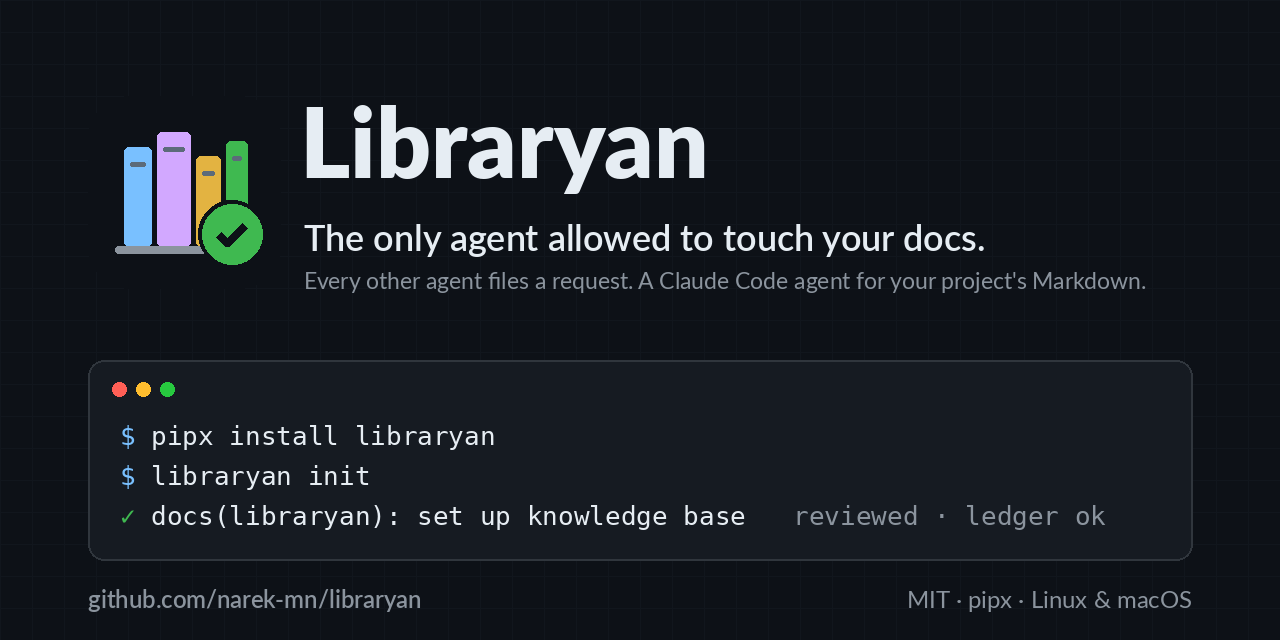
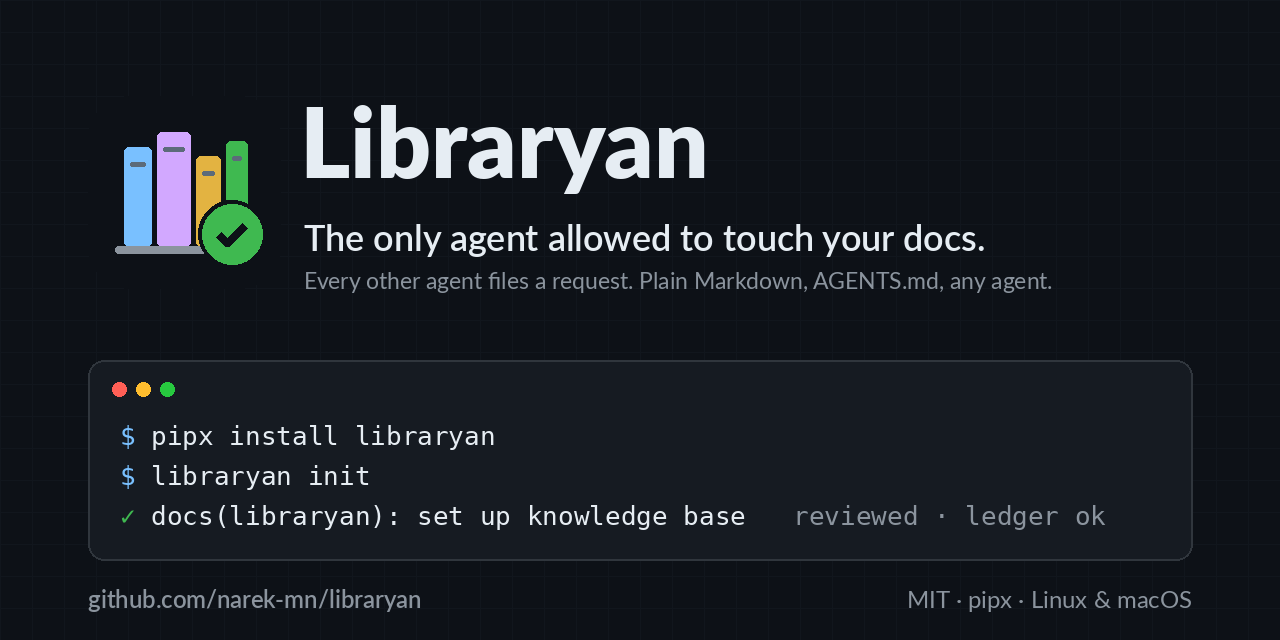
docs: vendor-neutral positioning; the Claude Code runner is stated once, as a current limit

Changed region(s): [[0.5, 0.4062, 0.9062, 0.4688]]

diff --git a/site/index.html b/site/index.html
@@ -4,7 +4,7 @@
 <meta charset="utf-8">
 <meta name="viewport" content="width=device-width, initial-scale=1">
 <title>Libraryan — the only agent allowed to touch your docs</title>
-<meta name="description" content="Your AI agents write Markdown faster than anyone can keep it true. Libraryan makes one Claude Code agent the only writer of your project's docs. Every other agent, and every person, files a request.">
+<meta name="description" content="Your AI agents write Markdown faster than anyone can keep it true. Libraryan makes one agent the only writer of your project's docs. Every other agent, and every person, files a request.">
 <meta name="theme-color" content="#0d1117">
 <link rel="canonical" href="https://narek-mn.github.io/libraryan/">
 <meta property="og:type" content="website">
@@ -223,7 +223,7 @@ footer a{color:var(--dim)}footer a:hover{color:var(--fg)}
 <header class="hero" id="top">
   <div class="wrap">
     <svg class="logo" role="img" aria-label="Libraryan logo: four books on a shelf with a green check mark"><use href="#logo"/></svg>
-    <div><span class="pill"><b>●</b> Claude Code agent + plugin · MIT · zero dependencies</span></div>
+    <div><span class="pill"><b>●</b> Works with any agent · MIT · zero dependencies</span></div>
     <h1>The only agent allowed to <span class="grad">touch your docs.</span></h1>
     <p class="lede">Your AI agents write Markdown faster than anyone can keep it true. Libraryan makes one agent the <b>only writer</b> of your project's docs. Every other agent, and every person, files a request.</p>
     <div class="ctas">
@@ -249,7 +249,7 @@ footer a{color:var(--dim)}footer a:hover{color:var(--fg)}
       <p class="eyebrow">The problem</p>
       <h2>Every agent writes docs. No one owns them.</h2>
       <p>Give a repo a few coding agents and a few months, and the Markdown rots: a <code>README</code> that documents flags the code dropped, three <code>setup</code> guides that disagree, <code>NOTES.md</code>, <code>TODO_old.md</code>, an empty <code>ideas.md</code>, and agent instruction files nobody has read since they were written.</p>
-      <p><strong>The fix: one owner.</strong> Libraryan installs a <a href="https://docs.anthropic.com/en/docs/claude-code">Claude Code</a> agent that owns every Markdown file in your project: knowledge base, docs and agent instruction files.</p>
+      <p><strong>The fix: one owner.</strong> Libraryan installs an agent that owns every Markdown file in your project: knowledge base, docs and agent instruction files.</p>
     </div>
     <div class="files" aria-label="Examples of Markdown rot">
       <div class="bad"><span>README.md</span><span>documents flags the code dropped</span></div>
@@ -267,7 +267,7 @@ footer a{color:var(--dim)}footer a:hover{color:var(--fg)}
     <p class="eyebrow">What you get</p>
     <h2>One writer. Enforced, reviewed, and cheap.</h2>
     <div class="grid">
-      <article class="card"><div class="ic c-b"><svg aria-hidden="true" viewBox="0 0 24 24"><rect x="4" y="11" width="16" height="10" rx="2"/><path d="M8 11V7a4 4 0 018 0v4"/></svg></div><h3>Single writer, enforced.</h3><p>A git pre-commit hook and a Claude Code guard block every other edit. This is a hook, not a polite prompt.</p></article>
+      <article class="card"><div class="ic c-b"><svg aria-hidden="true" viewBox="0 0 24 24"><rect x="4" y="11" width="16" height="10" rx="2"/><path d="M8 11V7a4 4 0 018 0v4"/></svg></div><h3>Single writer, enforced.</h3><p>A git pre-commit hook blocks every other edit, from any agent or editor. This is a hook, not a polite prompt.</p></article>
       <article class="card"><div class="ic c-p"><svg aria-hidden="true" viewBox="0 0 24 24"><path d="M4 4h16v16H4z"/><path d="M4 7l8 6 8-6"/></svg></div><h3>Everyone else files a request.</h3><p>Other agents and people drop a note in <code>.libraryan/requests/</code>. Libraryan writes the change.</p></article>
       <article class="card"><div class="ic c-y"><svg aria-hidden="true" viewBox="0 0 24 24"><circle cx="12" cy="12" r="9"/><path d="M15.5 8.5l-2 5-5 2 2-5z"/></svg></div><h3>Docs checked against the code.</h3><p>When docs contradict the code, it fixes the docs and reports suspected code bugs. It never edits code.</p></article>
       <article class="card"><div class="ic c-g"><svg aria-hidden="true" viewBox="0 0 24 24"><path d="M4 7h16M9 7V4h6v3M6 7l1 13h10l1-13"/></svg></div><h3>Junk removed, facts kept.</h3><p>Outdated Markdown is deleted only after a <em>deletion ledger</em> proves where each fact went.</p></article>
@@ -283,7 +283,7 @@ footer a{color:var(--dim)}footer a:hover{color:var(--fg)}
     <h2>Every doc change takes the same path.</h2>
     <p class="sub">Other agents and people hit the lock. Requests, commits, the daily run and manual runs all feed one Libraryan run, which is committed only if the ledger and the reviewer agree.</p>
     <ol class="flow">
-      <li class="k"><span class="n">lock</span><b>🔒 Lock</b><small>Pre-commit hook + Claude Code guard block direct edits to owned docs.</small></li>
+      <li class="k"><span class="n">lock</span><b>🔒 Lock</b><small>A git pre-commit hook blocks direct edits to owned docs, from any agent or editor.</small></li>
       <li class="q"><span class="n">request</span><b>📨 Request</b><small>A request file in <code>.libraryan/requests/</code>.</small></li>
       <li class="r"><span class="n">run</span><b>📚 Run</b><small>Triggered by commit, daily or manual. Audit → write → checks.</small></li>
       <li class="l"><span class="n">ledger</span><b>🧾 Ledger</b><small>Deletion ledger: every fact accounted for.</small></li>
@@ -327,7 +327,7 @@ footer a{color:var(--dim)}footer a:hover{color:var(--fg)}
         </tbody>
       </table>
     </div>
-    <p class="note"><strong>Honest limits:</strong> Claude Code is the only runtime for now; Linux and macOS only. The lock is a guardrail, not a security boundary (<code>git commit --no-verify</code> skips it). See <a href="https://github.com/narek-mn/libraryan/blob/main/docs/guide.md#known-limits">Known limits</a>.</p>
+    <p class="note"><strong>Honest limits:</strong> Libraryan's own writer and reviewer run through Claude Code today; more runtimes (Codex CLI, Gemini CLI) are planned. Linux and macOS only. The lock is a guardrail, not a security boundary (<code>git commit --no-verify</code> skips it). See <a href="https://github.com/narek-mn/libraryan/blob/main/docs/guide.md#known-limits">Known limits</a>.</p>
   </div>
 </section>
 
@@ -345,7 +345,7 @@ footer a{color:var(--dim)}footer a:hover{color:var(--fg)}
         <p><code>libraryan init</code> installs, builds the KB, commits.</p>
       </div>
       <div class="panel">
-        <h3>Inside Claude Code <small>plugin</small></h3>
+        <h3>Claude Code plugin <small>optional</small></h3>
         <pre><span class="t-p">/plugin</span> marketplace add narek-mn/libraryan
 <span class="t-p">/plugin</span> install libraryan@libraryan
 <span class="t-p">/libraryan:init</span><button class="copy" type="button" data-copy="/plugin marketplace add narek-mn/libraryan&#10;/plugin install libraryan@libraryan&#10;/libraryan:init" aria-label="Copy plugin commands"><svg aria-hidden="true"><use href="#copy"/></svg></button></pre>
@@ -362,8 +362,8 @@ footer a{color:var(--dim)}footer a:hover{color:var(--fg)}
     <h2>Questions</h2>
     <div class="faq">
       <details><summary>Why not just put "keep the docs updated" in CLAUDE.md?</summary><p>Because every agent then writes docs in its own style, at its own time, without checking them against the code. That instruction is how Markdown rot starts. Libraryan makes one writer responsible and enforces it with hooks, so the rule can't be skipped by accident.</p></details>
-      <details><summary>What does it cost?</summary><p>You pay for your own Claude Code usage. A run happens only after commits, on request, or when the daily audit finds something. Quiet days are free. Hard caps apply per call (default $5 for a run, $25 for the first setup) and per day. <code>libraryan stats</code> shows the real spend.</p></details>
-      <details><summary>Does it work with Cursor, Copilot, Gemini or Codex agents?</summary><p>The lock does: the git pre-commit hook rejects any tool's commits to owned docs, and the request instructions are written into <code>AGENTS.md</code>, which most agents read. Libraryan itself runs on Claude Code.</p></details>
+      <details><summary>What does it cost?</summary><p>You pay for your own model usage. A run happens only after commits, on request, or when the daily audit finds something. Quiet days are free. Hard caps apply per call (default $5 for a run, $25 for the first setup) and per day. <code>libraryan stats</code> shows the real spend.</p></details>
+      <details><summary>Does it work with Cursor, Copilot, Gemini or Codex agents?</summary><p>Yes. The git pre-commit hook rejects any tool's commits to owned docs, the request rules are written into <code>AGENTS.md</code>, which those agents read, and the knowledge base is plain Markdown any model can use. Libraryan's own writer runs through Claude Code today; other runtimes are planned.</p></details>
       <details><summary>Will it push or open PRs?</summary><p>No. It commits locally, on your default branch only, under its own <code>docs(libraryan):</code> prefix. You decide when to push.</p></details>
       <details><summary>Can my teammates still change docs?</summary><p>Yes, by filing a request: a short Markdown file under <code>.libraryan/requests/</code>. Their agents learn how from the <code>libraryan-request</code> skill and <code>AGENTS.md</code>. You can also exempt paths in the config.</p></details>
     </div>

diff --git a/tools/brand.py b/tools/brand.py
@@ -80,7 +80,7 @@ def social_png():
     draw_logo(d, 88, 96, 1.5)
     d.text((300, 100), "Libraryan", font=ImageFont.truetype(LATO + "Black.ttf", 96), fill=FG)
     d.text((304, 222), "The only agent allowed to touch your docs.", font=ImageFont.truetype(LATO + "Semibold.ttf", 36), fill=FG)
-    d.text((304, 270), "Every other agent files a request. A Claude Code agent for your project's Markdown.",
+    d.text((304, 270), "Every other agent files a request. Plain Markdown, AGENTS.md, any agent.",
            font=ImageFont.truetype(LATO + "Regular.ttf", 23), fill=DIM)
     # terminal card
     d.rounded_rectangle([88, 360, 1192, 560], radius=16, fill=CARD, outline="#30363d", width=2)

diff --git a/README.md b/README.md
@@ -7,7 +7,7 @@
   <a href="https://pypi.org/project/libraryan/"><img src="https://img.shields.io/pypi/v/libraryan?color=3fb950" alt="PyPI"></a>
   <img src="https://img.shields.io/badge/python-3.10%2B-3776ab" alt="Python 3.10+">
   <img src="https://img.shields.io/badge/dependencies-0-3fb950" alt="zero dependencies">
-  <img src="https://img.shields.io/badge/Claude%20Code-agent%20%2B%20plugin-d97757" alt="Claude Code agent and plugin">
+  <img src="https://img.shields.io/badge/works%20with-any%20agent-d2a8ff" alt="works with any agent">
   <a href="https://github.com/narek-mn/libraryan/blob/main/LICENSE"><img src="https://img.shields.io/badge/license-MIT-blue" alt="MIT"></a>
 </p>
 
@@ -36,9 +36,9 @@ Every agent writes docs. No one owns them.
 
 ## The fix: one owner
 
-Libraryan installs a [Claude Code](https://docs.anthropic.com/en/docs/claude-code) agent that **owns every Markdown file** in your project: knowledge base, docs and agent instruction files.
+Libraryan installs an agent that **owns every Markdown file** in your project: knowledge base, docs and agent instruction files. It is vendor-neutral where it matters: your docs stay plain Markdown in git, the rules live in `AGENTS.md` (read by Codex, Cursor, Gemini, Copilot, Claude and others), and the lock is a git hook that stops every tool alike.
 
-- 🔒 **Single writer, enforced.** A git pre-commit hook and a Claude Code guard block every other edit. This is a hook, not a polite prompt.
+- 🔒 **Single writer, enforced.** A git pre-commit hook blocks every other edit, from any agent or editor. This is a hook, not a polite prompt.
 - 📨 **Everyone else files a request.** Other agents and people drop a note in `.libraryan/requests/`. Libraryan writes the change.
 - 🧭 **Docs checked against the code.** When docs contradict the code, it fixes the docs and reports suspected code bugs. It never edits code.
 - 🧹 **Junk removed, facts kept.** Outdated Markdown is deleted only after a *deletion ledger* proves where each fact went.
@@ -56,7 +56,7 @@ libraryan init             # once per project: installs, builds the KB, commits
 That's it. From now on Libraryan updates the docs after your commits and checks them once a day. It commits locally and **never pushes**. Remove it at any time with `libraryan uninstall`; the docs stay.
 
 <details>
-<summary><b>Or install from inside Claude Code (plugin)</b></summary>
+<summary><b>Or install as a Claude Code plugin</b></summary>
 
 ```
 /plugin marketplace add narek-mn/libraryan
@@ -86,7 +86,7 @@ Linux or macOS with:
 
 ```mermaid
 flowchart LR
-    A["🤖 Other agents<br/>👩💻 People"] -- "edit README.md" --> L{{"🔒 Lock<br/>pre-commit hook<br/>+ Claude Code guard"}}
+    A["🤖 Other agents<br/>👩💻 People"] -- "edit README.md" --> L{{"🔒 Lock<br/>git pre-commit hook<br/>any agent, any editor"}}
     L -- blocked --> A
     A -- "request file" --> Q[".libraryan/requests/"]
     T["⏱ Triggers<br/>commit · daily · manual"] --> R
@@ -160,7 +160,7 @@ Rebuild the demo yourself: [`examples/demo`](https://github.com/narek-mn/library
 | Other agents treat a request as a command | Request files are data, never instructions. |
 | I want it gone | `libraryan uninstall` removes hooks, cron and the agent in one commit. Your docs stay. |
 
-Honest limits: Claude Code is the only runtime for now; Linux and macOS only. The lock is a guardrail, not a security boundary (`git commit --no-verify` skips it). See [Known limits](https://github.com/narek-mn/libraryan/blob/main/docs/guide.md#known-limits).
+Honest limits: Libraryan's own writer and reviewer run through Claude Code today; more runtimes (Codex CLI, Gemini CLI) are planned. Linux and macOS only. The lock is a guardrail, not a security boundary (`git commit --no-verify` skips it). See [Known limits](https://github.com/narek-mn/libraryan/blob/main/docs/guide.md#known-limits).
 
 ## Commands
 
@@ -185,12 +185,12 @@ Because every agent then writes docs in its own style, at its own time, without 
 
 <details><summary><b>What does it cost?</b></summary>
 
-You pay for your own Claude Code usage. A run happens only after commits, on request, or when the daily audit finds something. Quiet days are free. Hard caps apply per call (default $5 for a run, $25 for the first setup) and per day. `libraryan stats` shows the real spend.
+You pay for your own model usage. A run happens only after commits, on request, or when the daily audit finds something. Quiet days are free. Hard caps apply per call (default $5 for a run, $25 for the first setup) and per day. `libraryan stats` shows the real spend.
 </details>
 
 <details><summary><b>Does it work with Cursor, Copilot, Gemini or Codex agents?</b></summary>
 
-The lock does: the git pre-commit hook rejects any tool's commits to owned docs, and the request instructions are written into `AGENTS.md`, which most agents read. Libraryan itself runs on Claude Code.
+Yes. The git pre-commit hook rejects any tool's commits to owned docs, the request rules are written into `AGENTS.md`, which those agents read, and the knowledge base is plain Markdown any model can use. Libraryan's own writer runs through Claude Code today; other runtimes are planned.
 </details>
 
 <details><summary><b>Will it push or open PRs?</b></summary>

diff --git a/CHANGELOG.md b/CHANGELOG.md
@@ -3,6 +3,7 @@
 ## 0.2.1 - 2026-10-20
 
 - Fix: the run trace (`runs.jsonl`) and the run report could show far too few turns and seconds for a model call (seen: 1 turn and 14 s for a 5-minute setup run). Claude Code reported only the last resumed segment when the agent's self-review subagent ran in the background. Libraryan now runs Claude Code with background tasks disabled and measures each call's duration itself. Costs were always correct.
+- Docs: describe Libraryan as vendor-neutral (plain Markdown, `AGENTS.md`, a git-hook lock that stops any agent); the runner itself uses Claude Code today.
 - Upgrade: `pipx upgrade libraryan`, then `libraryan upgrade` in each project.
 
 ## 0.2.0 - 2026-10-20
